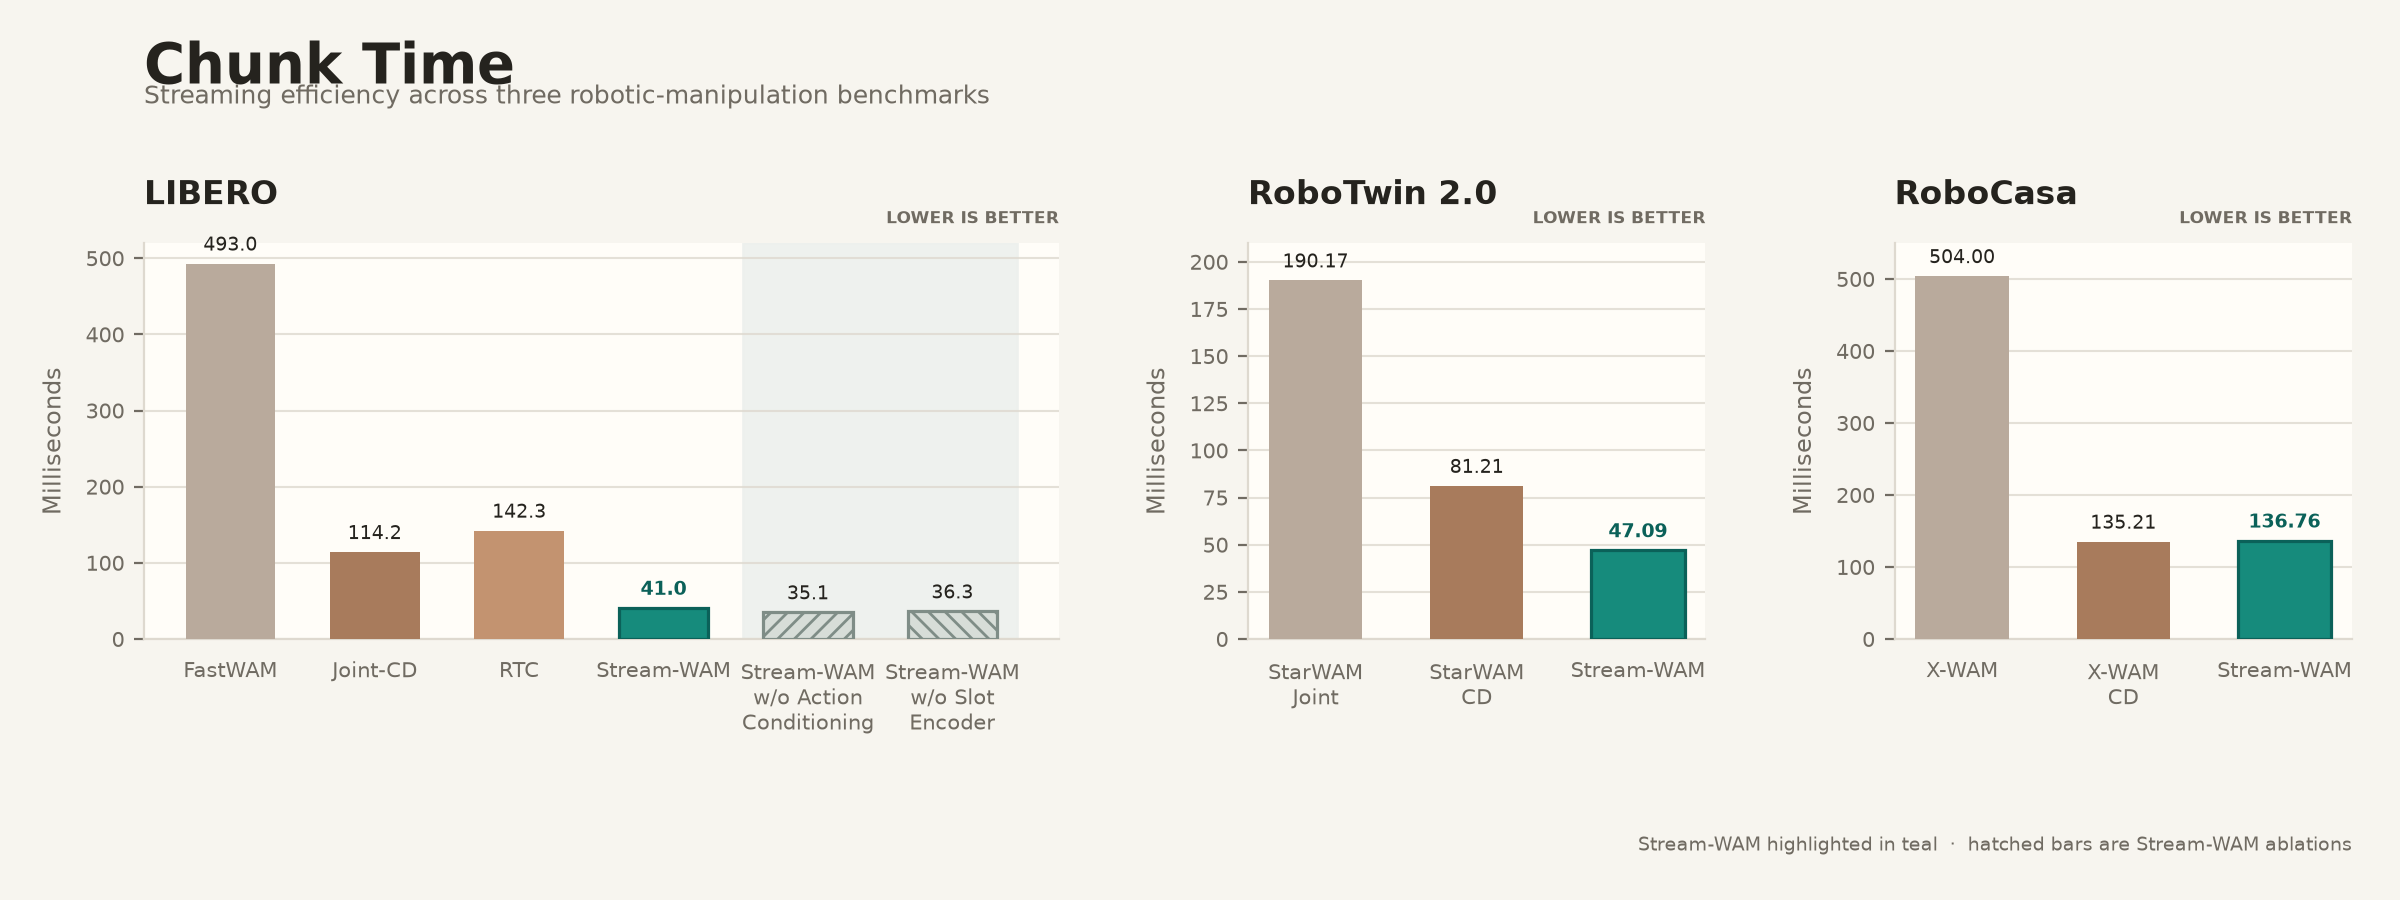
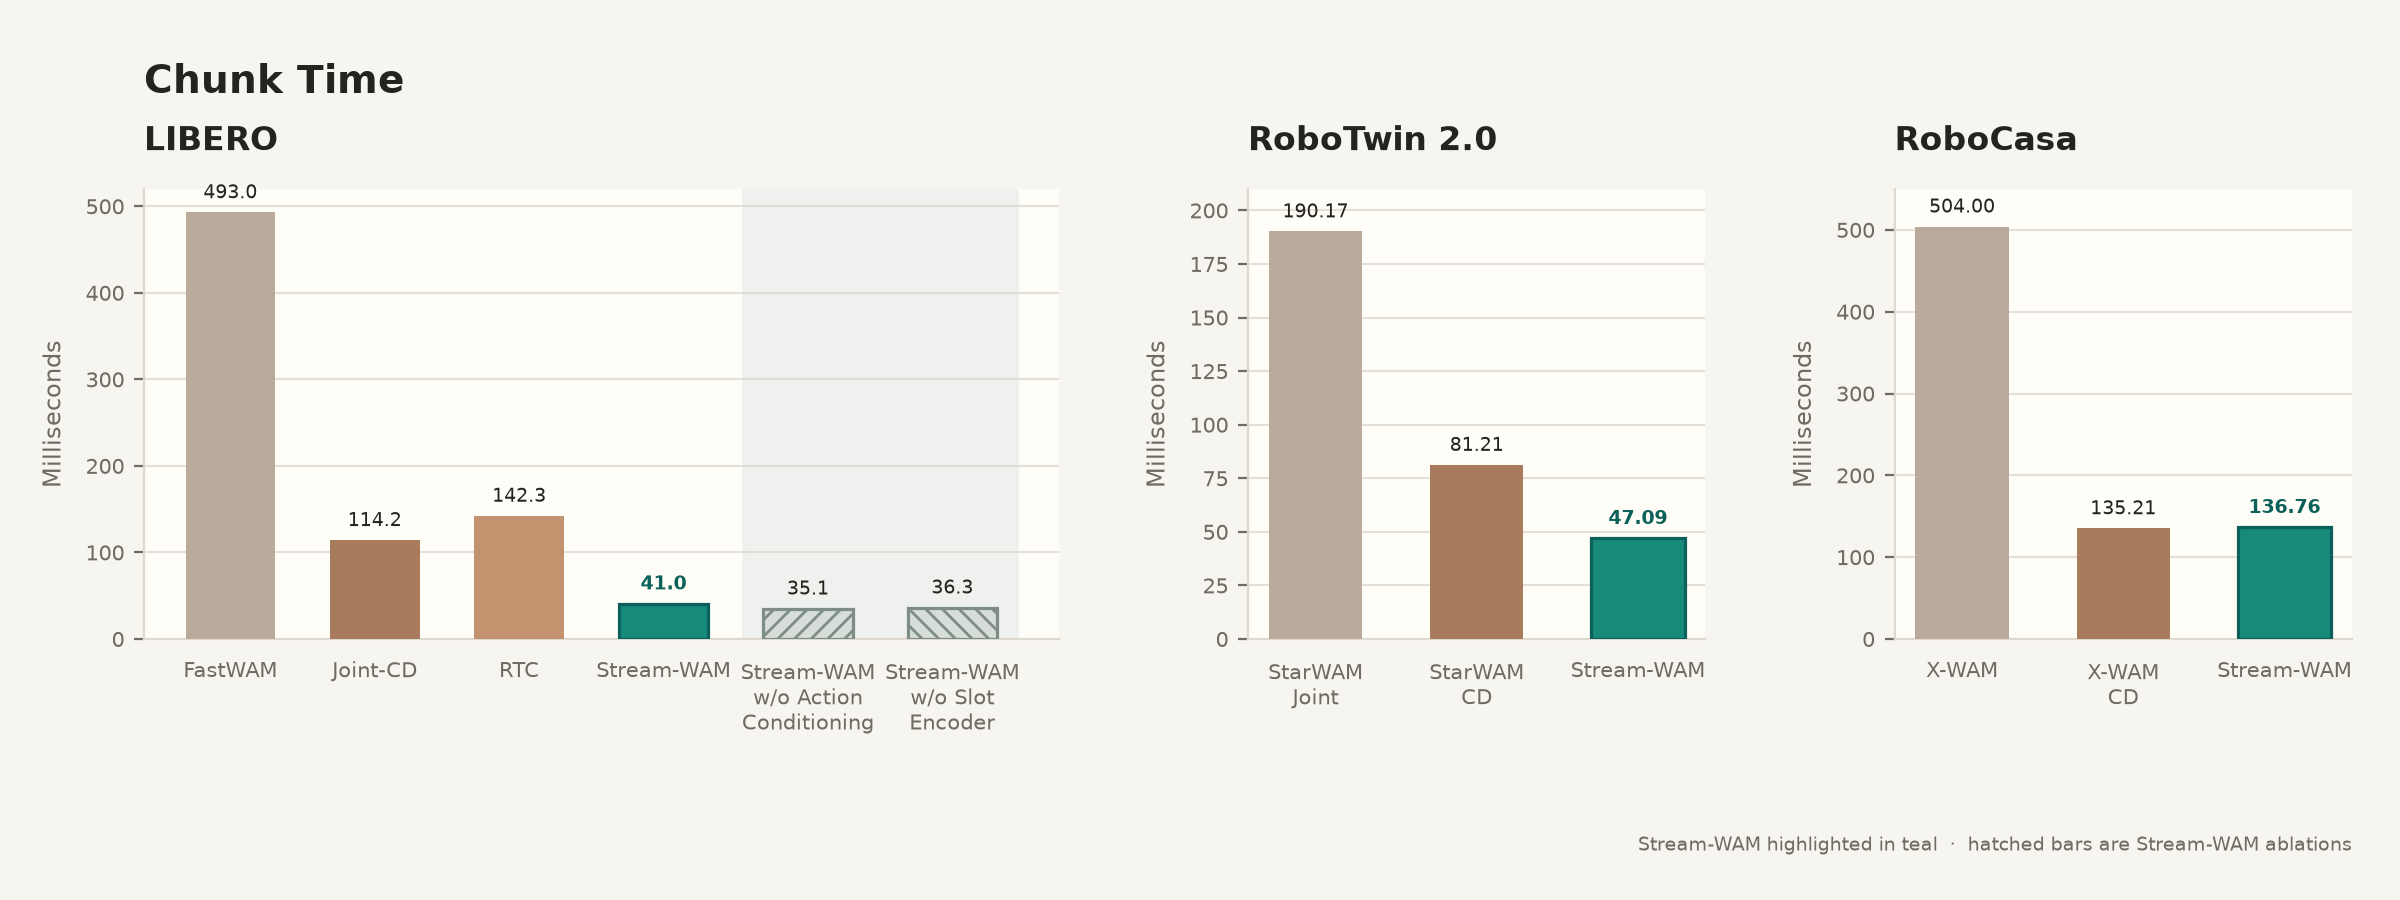
refine project abstract and latency figures

diff --git a/academic_project_page/index.html b/academic_project_page/index.html
@@ -60,13 +60,9 @@
 
       <article class="longform" id="article">
         <div class="article-header reading-column">
-          <h2>A streaming model should know what the robot is already doing.</h2>
-          <p class="article-dek">World-action models connect visual prediction and action generation. Stream-WAM asks what happens when that loop is reorganized around continuous robot execution—and why scheduling alone is not enough.</p>
-          <p>This page is a research preview rather than a substitute for the technical report. It develops the central motivation, explains the action-conditioned streaming design, and places the current results in context using the evidence available in the repository today.</p>
-          <nav class="article-toc" aria-label="Article contents">
-            <span>In this article</span>
-            <a href="#act-wam">Why robots wait</a><a href="#act-async">The asynchronous boundary</a><a href="#act-streamwam">Action-conditioned futures</a><a href="#experiments">Results</a>
-          </nav>
+          <h2>Abstract</h2>
+          <p class="abstract-lead">World-action models jointly generate visual futures and robot action chunks, giving manipulation policies a shared representation of what may happen and how the robot should act. Their iterative video-action generation, however, makes real-time deployment difficult: synchronous execution exposes inference latency as robot idle time, while naive asynchronous switching can create disagreement between consecutive chunks.</p>
+          <p>Stream-WAM provides a unified framework for studying streaming strategies in WAM-based robot control. Building on this framework, our method feeds the committed action prefix back into the world model: the action currently being executed conditions future-video generation while the next world-action chunk is predicted asynchronously. This couples ongoing execution to the visual future imagined by the model instead of treating inference–execution overlap as scheduling alone. We evaluate the approach on LIBERO, RoboTwin 2.0, and RoboCasa.</p>
         </div>
 
         <section class="editorial-act reading-column" id="act-wam" aria-label="The deployment problem">
@@ -190,7 +186,7 @@
           </section>
 
           <div class="efficiency-intro reading-column">
-            <p><strong>Inference efficiency.</strong> Chunk latency and end-to-end control time are separated from task success below. Every bar is labeled with its reported value; lower is better.</p>
+            <p><strong>Inference efficiency.</strong> Chunk latency and end-to-end control time are separated from task success below. Every bar is labeled with its reported value.</p>
           </div>
           <figure class="latency-figure breakout" aria-labelledby="chunk-time-caption">
             <div class="latency-viewport">
@@ -198,7 +194,7 @@
                 <img class="latency-plot" src="assets/stream-wam-chunk-time.png" alt="Chunk-time comparison for LIBERO, RoboTwin 2.0, and RoboCasa." width="2400" height="900" aria-describedby="chunk-time-caption latency-data-caption">
               </a>
             </div>
-            <figcaption id="chunk-time-caption">Chunk Time comparison for LIBERO, RoboTwin 2.0, and RoboCasa. Each benchmark uses its own continuous scale; lower is better.</figcaption>
+            <figcaption id="chunk-time-caption">Chunk Time comparison for LIBERO, RoboTwin 2.0, and RoboCasa. Each benchmark uses its own continuous scale.</figcaption>
           </figure>
           <figure class="latency-figure breakout" aria-labelledby="episode-time-caption">
             <div class="latency-viewport">
@@ -206,7 +202,7 @@
                 <img class="latency-plot" src="assets/stream-wam-episode-time.png" alt="Episode-time comparison for LIBERO, RoboTwin 2.0, and RoboCasa." width="2400" height="900" aria-describedby="episode-time-caption latency-data-caption">
               </a>
             </div>
-            <figcaption id="episode-time-caption">Episode Time comparison for LIBERO, RoboTwin 2.0, and RoboCasa. LIBERO reports Long and Short tasks separately; lower is better.</figcaption>
+            <figcaption id="episode-time-caption">Episode Time comparison for LIBERO, RoboTwin 2.0, and RoboCasa. LIBERO reports Long and Short tasks separately.</figcaption>
             <div class="sr-only">
             <table class="latency-data">
               <caption id="latency-data-caption">Exact latency values shown in the figure</caption>

diff --git a/academic_project_page/styles.css b/academic_project_page/styles.css
@@ -67,15 +67,11 @@ button { font: inherit; }
 .headline-results span { margin-top: 10px; color: var(--muted); font-size: .69rem; font-weight: 720; letter-spacing: .08em; text-transform: uppercase; }
 
 .longform { border-top: 1px solid var(--line); background: var(--paper); }
-.article-header { padding-block: clamp(100px,12vw,170px); }
-.article-header h2 { margin: 0; font-family: var(--serif); font-size: clamp(2.8rem,5vw,4.8rem); font-weight: 500; line-height: 1.04; letter-spacing: -.045em; }
-.article-dek { margin: 32px 0 0; color: var(--ink); font-family: var(--serif); font-size: clamp(1.3rem,2vw,1.7rem); line-height: 1.55; }
-.article-header > p:not(.article-label):not(.article-dek), .article-section p { font-size: 1.08rem; line-height: 1.84; }
-.article-header > p:last-of-type { margin-top: 25px; color: var(--muted); }
-.article-toc { display: flex; flex-wrap: wrap; gap: 7px 17px; margin-top: 48px; padding-block: 18px; border-block: 1px solid var(--line); }
-.article-toc span { width: 100%; margin-bottom: 4px; color: var(--orange); font: italic .92rem/1.4 var(--serif); }
-.article-toc a { color: var(--muted); font-size: .76rem; font-weight: 700; text-decoration-color: var(--line-strong); text-underline-offset: 4px; }
-.article-toc a:hover { color: var(--teal-deep); }
+.article-header { padding-block: clamp(72px,8vw,105px); }
+.article-header h2 { margin: 0; font-family: var(--serif); font-size: clamp(1.15rem,1.8vw,1.45rem); font-weight: 600; line-height: 1.25; letter-spacing: -.015em; }
+.article-header > p, .article-section p { font-size: 1.08rem; line-height: 1.84; }
+.article-header .abstract-lead { margin-top: 22px; color: var(--ink); }
+.article-header > p:last-of-type { margin-top: 20px; color: var(--muted); }
 
 .article-section { padding-block: clamp(105px,12vw,165px); border-top: 1px solid var(--line); }
 .article-section p { color: var(--muted); }
@@ -177,8 +173,8 @@ tbody tr:last-child > * { border-bottom: 0; }
   .editorial-act { padding-block: 30px; }
   .editorial-act + .editorial-act { padding-top: 58px; }
   .editorial-act:last-of-type { padding-bottom: 90px; }
-  .article-header h2 { font-size: clamp(2.55rem,12.5vw,3.8rem); }
-  .article-header > p:not(.article-label):not(.article-dek), .article-section p, .editorial-act p { font-size: 1rem; line-height: 1.82; }
+  .article-header h2 { font-size: 1.2rem; }
+  .article-header > p, .article-section p, .editorial-act p { font-size: 1rem; line-height: 1.82; }
   .method-figure { padding: 20px; }
   .benchmark { width: 100%; }
   .efficiency-intro { margin-top: 80px; }

diff --git a/tests/test_academic_project_page.py b/tests/test_academic_project_page.py
@@ -407,6 +407,25 @@ def test_page_is_a_linear_text_first_research_article() -> None:
     assert "future-slots" not in html
 
 
+def test_article_opens_with_a_compact_abstract_without_a_contents_menu() -> None:
+    parser, html = parse_page()
+    visible_text = " ".join(parser.text_parts)
+    css = (PAGE_ROOT / "styles.css").read_text(encoding="utf-8")
+
+    assert "Abstract" in visible_text
+    assert "jointly generate visual futures and robot action chunks" in visible_text
+    assert "naive asynchronous switching can create disagreement between consecutive chunks" in visible_text
+    assert "action currently being executed conditions future-video generation" in visible_text
+    assert "A streaming model should know what the robot is already doing." not in visible_text
+    assert "In this article" not in visible_text
+    assert "lower is better" not in visible_text.casefold()
+    assert 'aria-label="Article contents"' not in html
+    assert "article-toc" not in html
+    heading_rule = re.search(r"\.article-header h2\s*\{([^}]*)\}", css)
+    assert heading_rule is not None
+    assert re.search(r"font-size:\s*clamp\([^;]*1\.45rem\s*\)", heading_rule.group(1))
+
+
 def test_article_opens_with_three_detailed_editorial_acts() -> None:
     parser, _ = parse_page()
     act_sections = [
@@ -681,6 +700,18 @@ def test_latency_generator_uses_the_authoritative_values() -> None:
         "Stream-WAM w/o Action Conditioning",
         "Stream-WAM w/o Slot Encoder",
     )
+
+    figure, axes = module._new_figure("Chunk Time")
+    module._style_axis(axes[0], ylabel="Milliseconds", title="LIBERO")
+    try:
+        assert figure._suptitle.get_fontsize() == 14
+        assert [text.get_text() for text in figure.texts] == [
+            "Chunk Time",
+            "Stream-WAM highlighted in teal  ·  hatched bars are Stream-WAM ablations",
+        ]
+        assert "LOWER IS BETTER" not in [text.get_text() for text in axes[0].texts]
+    finally:
+        module.plt.close(figure)
 
 
 def test_latency_figures_scroll_inside_their_mobile_viewports() -> None:

diff --git a/academic_project_page/generate_latency_figure.py b/academic_project_page/generate_latency_figure.py
@@ -59,17 +59,6 @@ def _style_axis(axis: Axes, *, ylabel: str, title: str) -> None:
     axis.set_axisbelow(True)
     axis.spines[["top", "right"]].set_visible(False)
     axis.spines[["left", "bottom"]].set_color(GRID)
-    axis.text(
-        1,
-        1.04,
-        "LOWER IS BETTER",
-        transform=axis.transAxes,
-        ha="right",
-        va="bottom",
-        color=MUTED,
-        fontsize=6,
-        fontweight="bold",
-    )
 
 
 def _libero_styles() -> tuple[list[str], list[str], list[str | None]]:
@@ -211,20 +200,12 @@ def _new_figure(metric: str) -> tuple[Figure, tuple[Axes, Axes, Axes]]:
         width_ratios=(2, 1, 1),
         left=0.06,
         right=0.98,
-        top=0.73,
+        top=0.79,
         bottom=0.29,
         wspace=0.31,
     )
     axes = tuple(figure.add_subplot(grid[0, index]) for index in range(3))
-    figure.suptitle(metric, x=0.06, y=0.955, ha="left", color=INK, fontsize=20, fontweight="bold")
-    figure.text(
-        0.06,
-        0.885,
-        "Streaming efficiency across three robotic-manipulation benchmarks",
-        ha="left",
-        color=MUTED,
-        fontsize=9,
-    )
+    figure.suptitle(metric, x=0.06, y=0.93, ha="left", color=INK, fontsize=14, fontweight="bold")
     figure.text(
         0.98,
         0.055,
